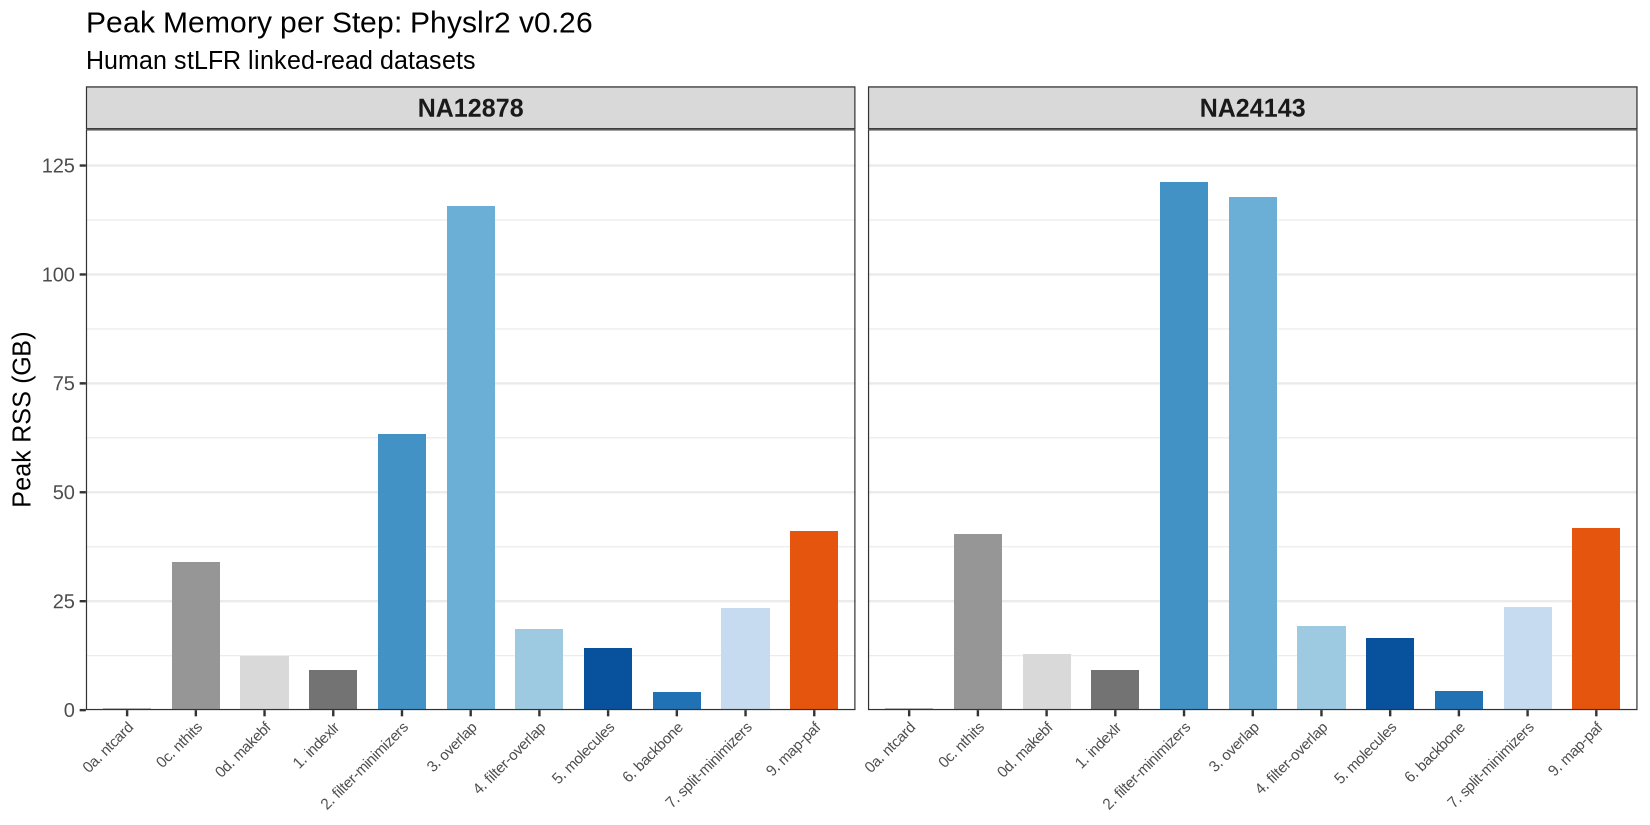
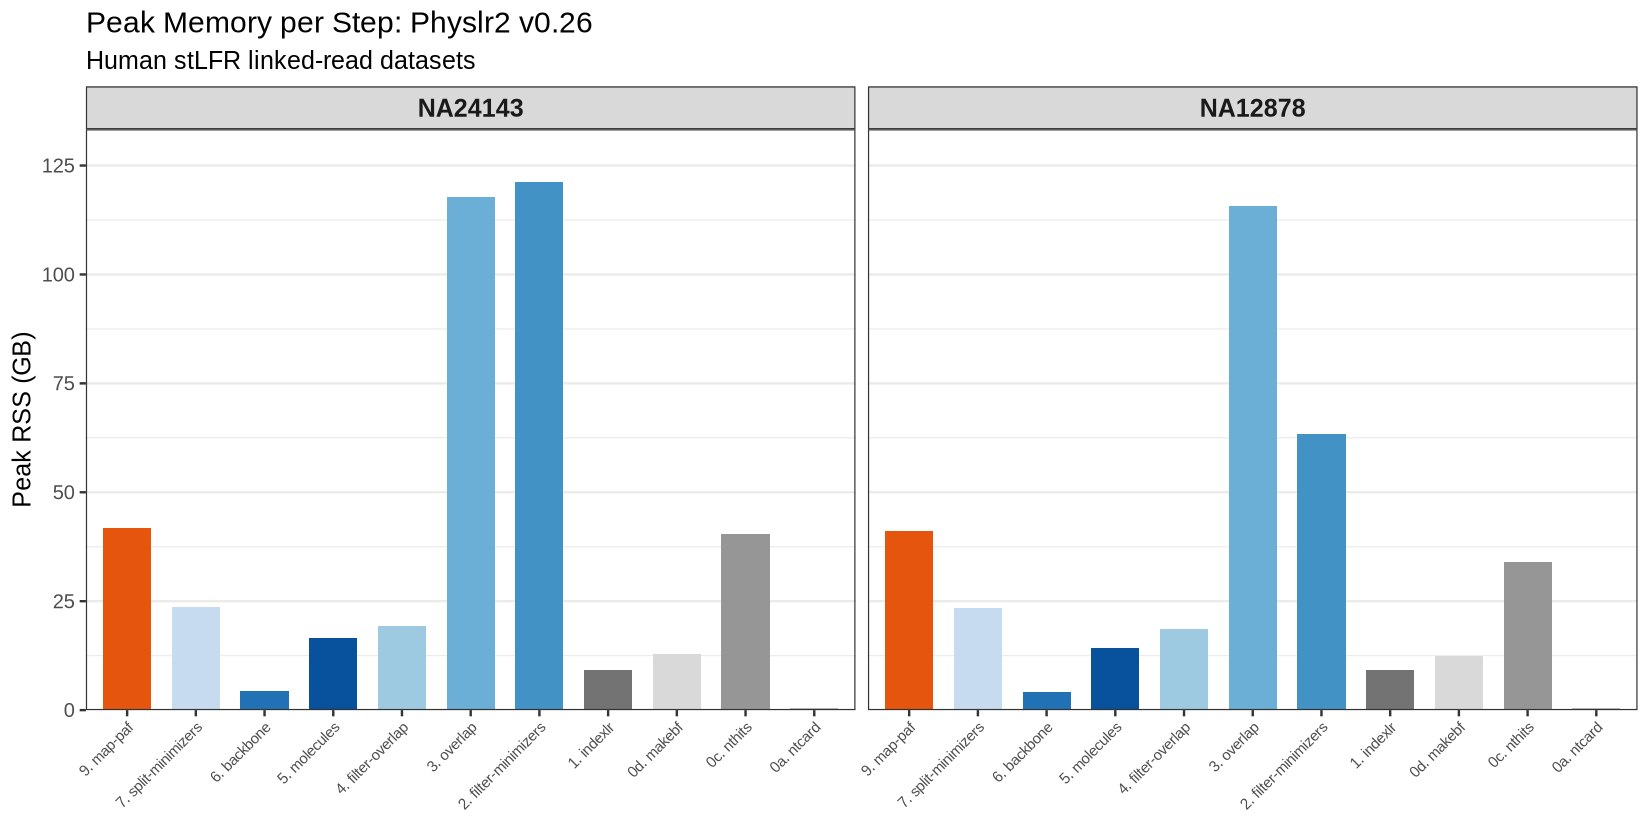
Reorder samples: NA24143 before NA12878

diff --git a/COMPARISON_REPORT.md b/COMPARISON_REPORT.md
@@ -13,8 +13,8 @@ Comparison of physical maps produced by the original Physlr (C++ and Python) and
 
 | Sample | Technology | Source |
 |--------|-----------|--------|
-| NA12878 | stLFR | [GIAB FTP](https://ftp-trace.ncbi.nlm.nih.gov/ReferenceSamples/giab/data/NA12878/stLFR/) |
 | NA24143 | stLFR | [GIAB FTP](https://ftp-trace.ncbi.nlm.nih.gov/ReferenceSamples/giab/data/AshkenazimTrio/HG004_NA24143_mother/stLFR/) |
+| NA12878 | stLFR | [GIAB FTP](https://ftp-trace.ncbi.nlm.nih.gov/ReferenceSamples/giab/data/NA12878/stLFR/) |
 
 Reference: GRCh38 (no alt analysis set). Benchmarked on a single compute node, 16 CPUs, 200 GB RAM.
 
@@ -30,15 +30,15 @@ Physlr2 v0.26 uses a cascading Bloom filter for singleton removal in filter-mini
 
 | Sample | Original Physlr | Physlr2 v0.26 | Speedup |
 |--------|:-:|:-:|:-:|
-| NA12878 | 18.2h | 12.0h | **1.5×** |
 | NA24143 | 25.4h | 13.0h | **2.0×** |
+| NA12878 | 18.2h | 12.0h | **1.5×** |
 
 Physlr-specific steps only (molecules + backbone + map-paf):
 
 | Sample | Original Physlr | Physlr2 v0.26 | Speedup |
 |--------|:-:|:-:|:-:|
-| NA12878 | 22,545s (6.3h) | 733s (12 min) | **31×** |
 | NA24143 | 45,527s (12.6h) | 928s (15 min) | **49×** |
+| NA12878 | 22,545s (6.3h) | 733s (12 min) | **31×** |
 
 ![Peak Memory per Step](results/comparison/memory_full.png)
 
@@ -50,19 +50,19 @@ Peak memory is dominated by the overlap step (~116–121 GB) and filter-minimize
 
 Reference chromosomes colored by backbone path. Each solid-color bar represents a single backbone path mapped to the reference genome.
 
-### NA12878
-
-| Original Physlr | Physlr2 v0.26 |
-|:---:|:---:|
-| [<img src="results/comparison/original_na12878_reference_v2.png" height="300">](results/comparison/original_na12878_reference_v2.png) | [<img src="results/comparison/v026_na12878_reference.png" height="300">](results/comparison/v026_na12878_reference.png) |
-| 183 backbone paths | 102 backbone paths |
-
 ### NA24143
 
 | Original Physlr | Physlr2 v0.26 |
 |:---:|:---:|
 | [<img src="results/comparison/original_na24143_reference_v2.png" height="300">](results/comparison/original_na24143_reference_v2.png) | [<img src="results/comparison/v026_na24143_reference.png" height="300">](results/comparison/v026_na24143_reference.png) |
 | 87 backbone paths | 62 backbone paths |
+
+### NA12878
+
+| Original Physlr | Physlr2 v0.26 |
+|:---:|:---:|
+| [<img src="results/comparison/original_na12878_reference_v2.png" height="300">](results/comparison/original_na12878_reference_v2.png) | [<img src="results/comparison/v026_na12878_reference.png" height="300">](results/comparison/v026_na12878_reference.png) |
+| 183 backbone paths | 102 backbone paths |
 
 ---
 